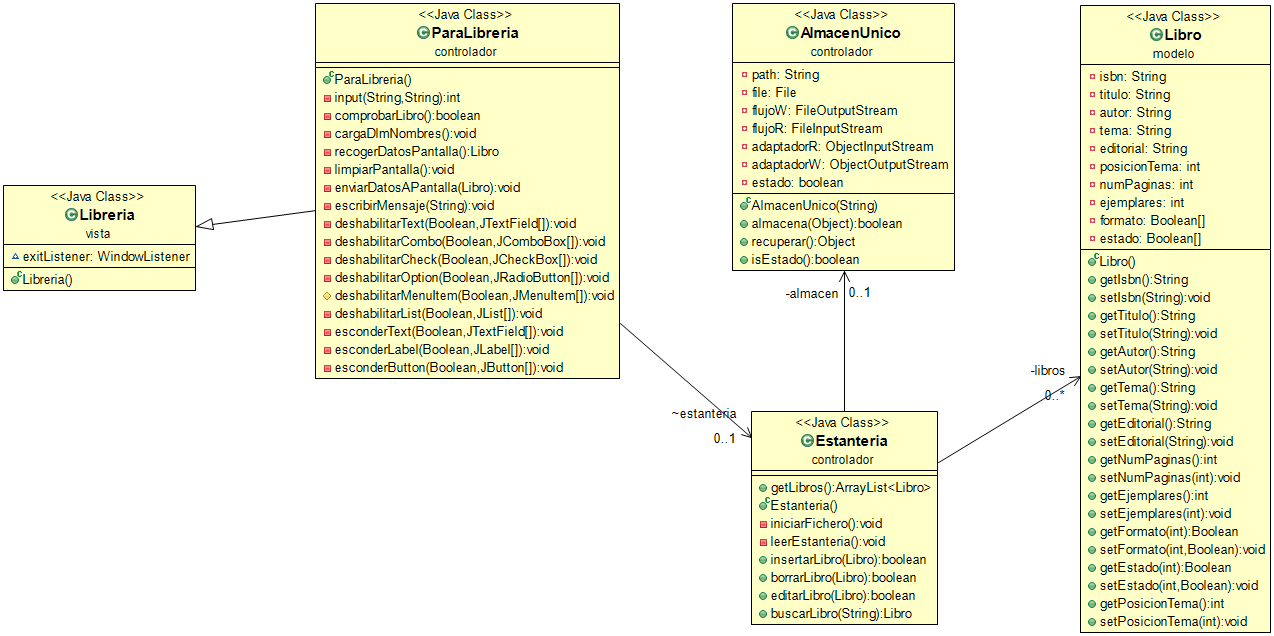
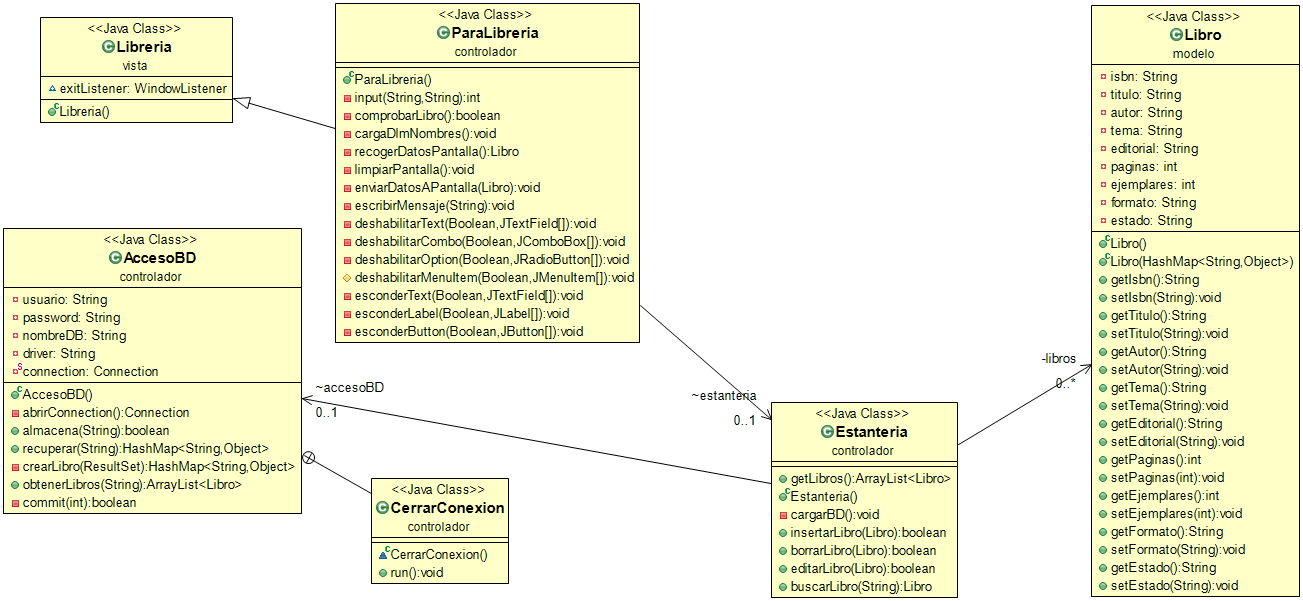
V4B Cambios

diff --git a/src/controlador/Estanteria.java b/src/controlador/Estanteria.java
@@ -1,6 +1,5 @@
 package controlador;
 
-import java.lang.reflect.Array;
 import java.sql.SQLException;
 import java.util.*;
 
@@ -37,9 +36,9 @@ public class Estanteria {
 	public boolean insertarLibro(Libro libro) {
 		try {
 			return accesoBD.almacena(
-					"INSERT INTO `libro`(`ISBN`,`Titulo`,`Autor`,`Editorial`,`Paginas`,`Ejemplares`,`Tema`,`Formato`,`Estado`) "
+					"INSERT INTO `libro`(`isbn`,`titulo`,`autor`,`editorial`,`paginas`,`ejemplares`,`tema`,`formato`,`estado`) "
 							+ "VALUES('" + libro.getIsbn() + "','" + libro.getTitulo() + "','" + libro.getAutor()
-							+ "','" + libro.getEditorial() + "','" + libro.getNumPaginas() + "','"
+							+ "','" + libro.getEditorial() + "','" + libro.getPaginas() + "','"
 							+ libro.getEjemplares() + "','"+libro.getTema()+"','"+libro.getFormato()+"','"+libro.getEstado()+"')");
 		} catch (Exception e) {
 			e.printStackTrace();
@@ -71,7 +70,7 @@ public class Estanteria {
 		try {
 			return accesoBD.almacena(
 					"UPDATE libro SET Titulo='" + libro.getTitulo() + "', Autor='" + libro.getAutor() + "', Editorial='"
-							+ libro.getEditorial() + "', Paginas='" + libro.getNumPaginas() + "',Ejemplares='"
+							+ libro.getEditorial() + "', Paginas='" + libro.getPaginas() + "',Ejemplares='"
 							+ libro.getEjemplares() + "', Tema='" + libro.getTema()
 							+ "',Formato='"+libro.getFormato()+"',Estado='"+libro.getEstado()+"' WHERE ISBN='" + libro.getIsbn() + "'");
 		} catch (Exception e) {
@@ -98,7 +97,6 @@ public class Estanteria {
 			libro = new Libro(datosLibro);
 		}
 		return libro;
-
 	}
 	
 }

diff --git a/src/controlador/ParaLibreria.java b/src/controlador/ParaLibreria.java
@@ -412,9 +412,9 @@ public class ParaLibreria extends Libreria {
 		libro.setAutor(txtAutor.getText());
 		libro.setEditorial(txtEditorial.getText());
 		try {
-			libro.setNumPaginas(Integer.valueOf((txtNumPaginas.getText())));
+			libro.setPaginas(Integer.valueOf((txtNumPaginas.getText())));
 		} catch (NumberFormatException e) {
-			libro.setNumPaginas(0);
+			libro.setPaginas(0);
 		}
 		if (!txtEjemplares.getText().isEmpty()) {
 			libro.setEjemplares(Integer.valueOf(txtEjemplares.getText()));
@@ -466,7 +466,7 @@ public class ParaLibreria extends Libreria {
 		txtTitulo.setText(libro.getTitulo());
 		txtAutor.setText(libro.getAutor());
 		txtEditorial.setText(libro.getEditorial());
-		txtNumPaginas.setText(String.valueOf(libro.getNumPaginas()));
+		txtNumPaginas.setText(String.valueOf(libro.getPaginas()));
 		txtEjemplares.setText(String.valueOf(libro.getEjemplares()));
 		for (int i = 0; i < comboTemas.getItemCount(); i++) {
 			if (comboTemas.getItemAt(i).equals(libro.getTema())) {

diff --git a/src/controlador/AccesoBD.java b/src/controlador/AccesoBD.java
@@ -1,7 +1,5 @@
 package controlador;
 
-import java.lang.reflect.InvocationTargetException;
-import java.lang.reflect.Method;
 import java.sql.*;
 import java.util.*;
 
@@ -82,7 +80,7 @@ public class AccesoBD {
 				libro.setTitulo(cachedRowSet.getString("titulo"));
 				libro.setAutor(cachedRowSet.getString("autor"));
 				libro.setEditorial(cachedRowSet.getString("editorial"));
-				libro.setNumPaginas(Integer.valueOf(cachedRowSet.getString("numPaginas")));
+				libro.setPaginas(Integer.valueOf(cachedRowSet.getString("paginas")));
 				libro.setEjemplares(Integer.valueOf(cachedRowSet.getString("ejemplares")));
 				libro.setTema(cachedRowSet.getString("tema"));
 				libro.setFormato(cachedRowSet.getString("formato"));

diff --git a/src/modelo/Libro.java b/src/modelo/Libro.java
@@ -77,12 +77,12 @@ public class Libro implements Serializable {
 		this.editorial = editorial;
 	}
 
-	public int getNumPaginas() {
+	public int getPaginas() {
 		return paginas;
 	}
 
-	public void setNumPaginas(int numPaginas) {
-		this.paginas = numPaginas;
+	public void setPaginas(int paginas) {
+		this.paginas = paginas;
 	}
 
 	public int getEjemplares() {
